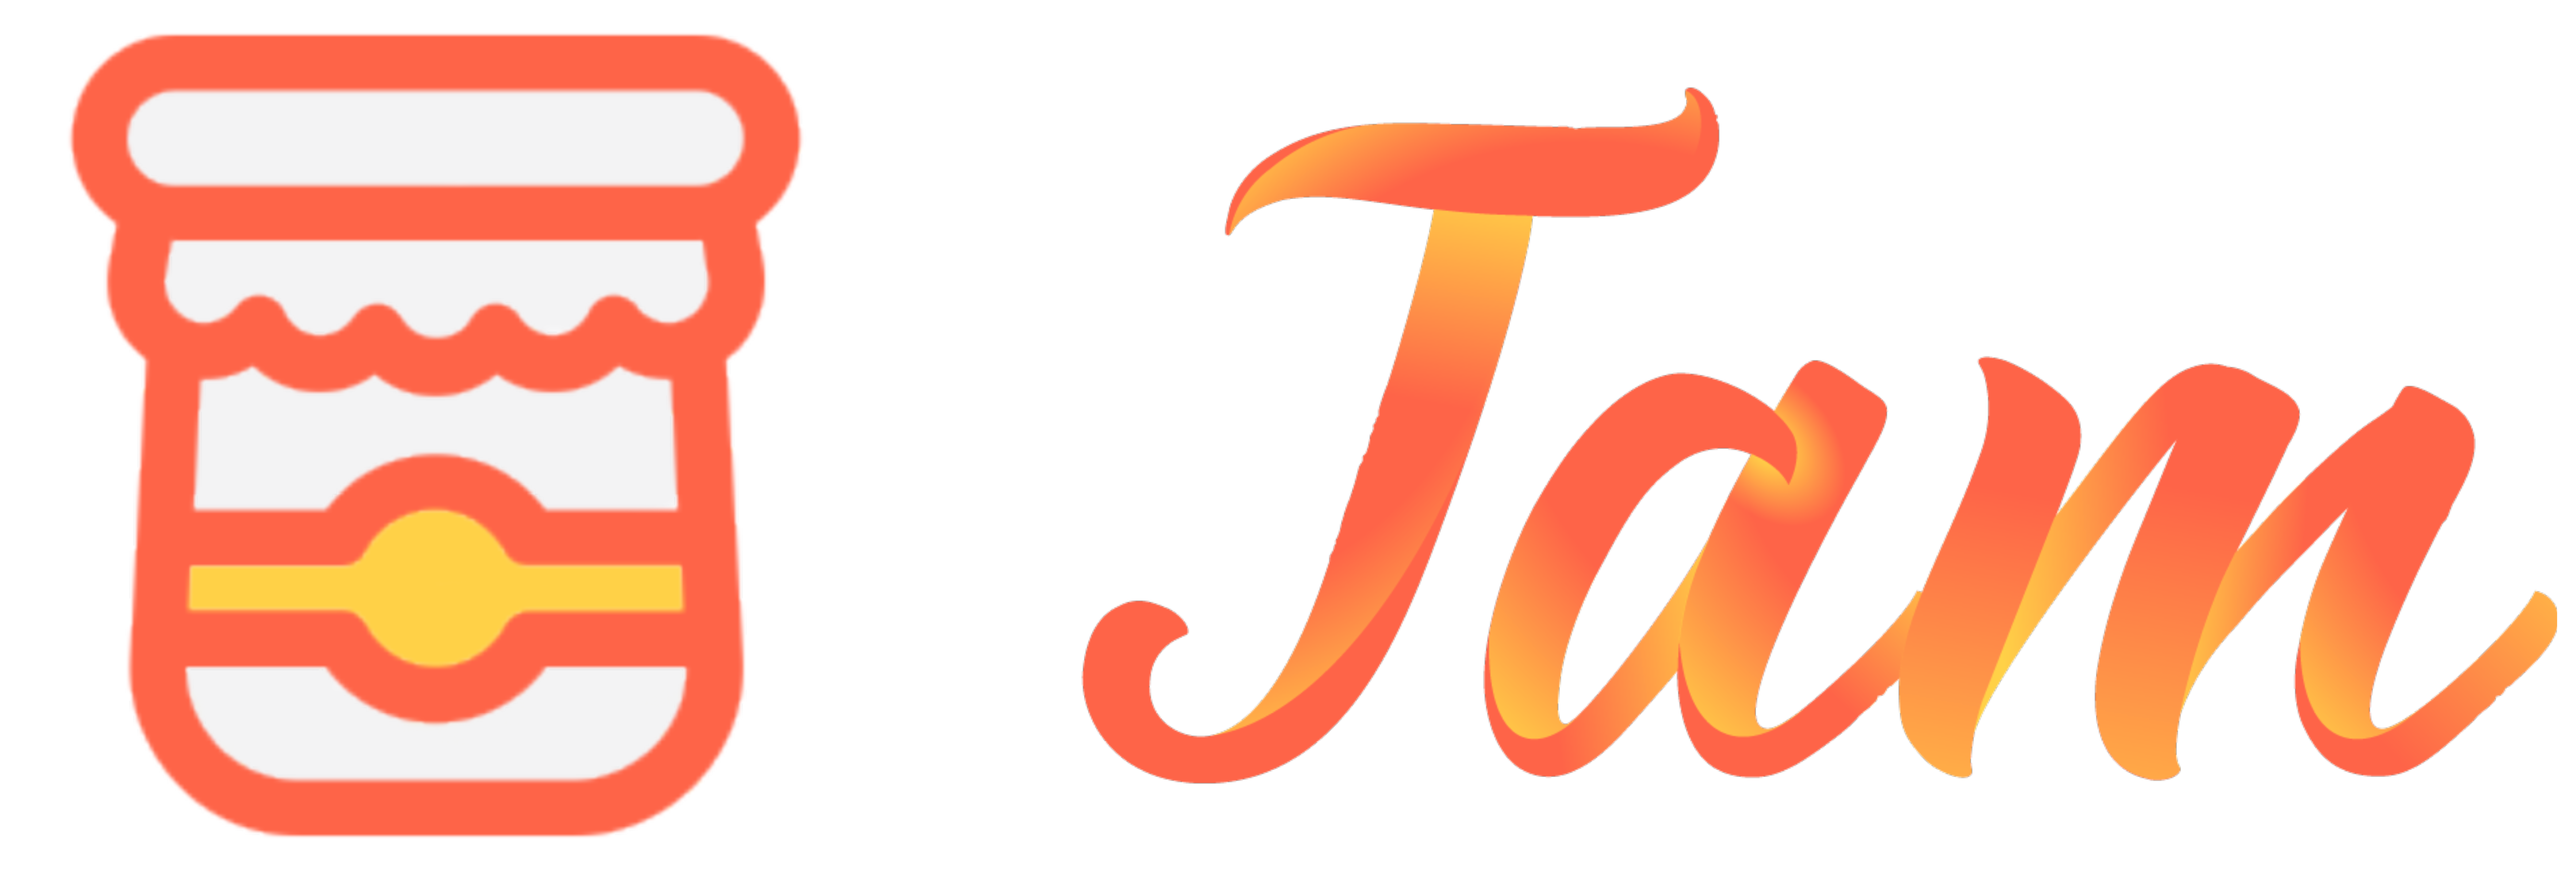
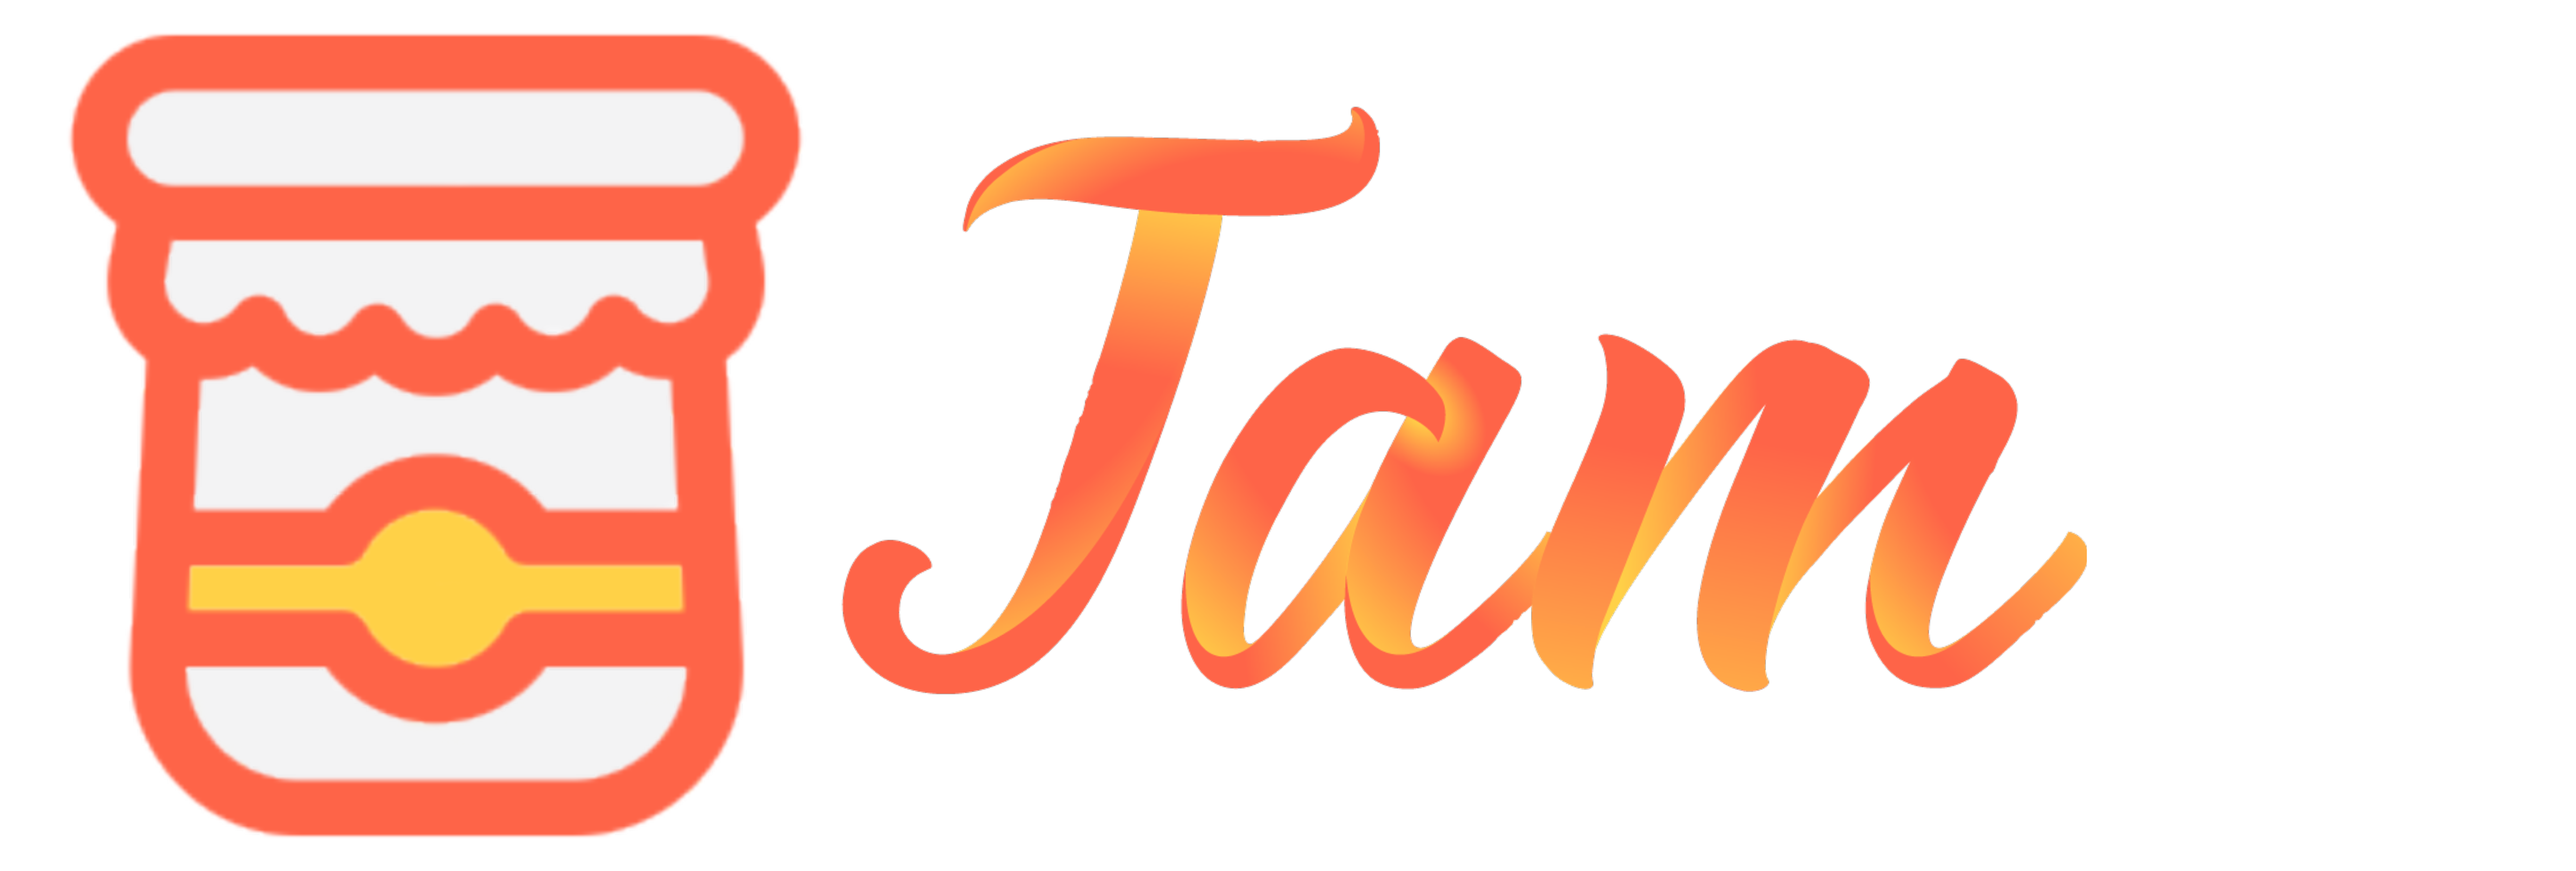
PM Push - Admin progress

Changed region(s): [[0.3123, 0.0938, 0.9992, 0.9062]]

diff --git a/app/assets/css/style.css b/app/assets/css/style.css
@@ -101,14 +101,14 @@ body #login_container form label {
   background-image: url("/assets/img/jam_jar_coloured.png");
   background-repeat: no-repeat;
   display: inline-block;
-  background-size: 200px;
+  background-size: 250px 90px;
   width: 80px;
   height: 100px;
   margin-left: 50px;
   transition: 0.5s ease width;
 }
 #header a.home:hover {
-  width: 200px;
+  width: 220px;
 }
 #header #menu {
   list-style: none;
@@ -560,6 +560,9 @@ body #login_container form label {
 
 #adminContainer {
   display: flex;
+  font-family: roboto, sans-serif;
+  font-weight: 400;
+  font-style: normal;
 }
 #adminContainer .column .tile {
   width: 150px;

diff --git a/app/assets/scss/style.scss b/app/assets/scss/style.scss
@@ -140,7 +140,7 @@ body {
         background-image: url("/assets/img/jam_jar_coloured.png");
         background-repeat: no-repeat;
         display: inline-block;
-        background-size: 200px;
+        background-size: 250px 90px;
         width: 80px;
         height: 100px;
         margin-left: 50px;
@@ -148,7 +148,7 @@ body {
     }
 
     a.home:hover {
-        width: 200px;
+        width: 220px;
     }
 
     #menu {
@@ -637,9 +637,9 @@ body {
 
 #adminContainer {
     display: flex;
+    @include content-font();
 
     .column {
-        // margin: 50px;
 
         .tile {
             width: 150px;

diff --git a/app/routes/public.js b/app/routes/public.js
@@ -34,5 +34,13 @@ router.get(["/admin"], (req, res) => {
     });
 });
 
+router.get(["/viewteacher"], (req, res) => {
+    let s = session(req);
+
+    res.render("viewteacher", {
+        user: s.getAccount()
+    });
+});
+
 
 module.exports = router;
